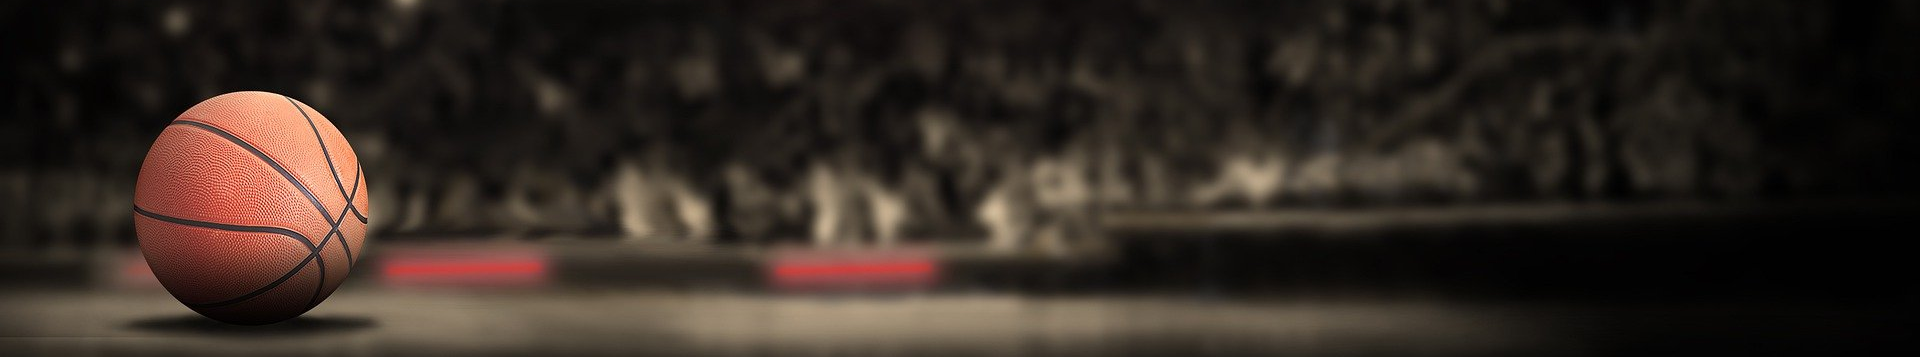
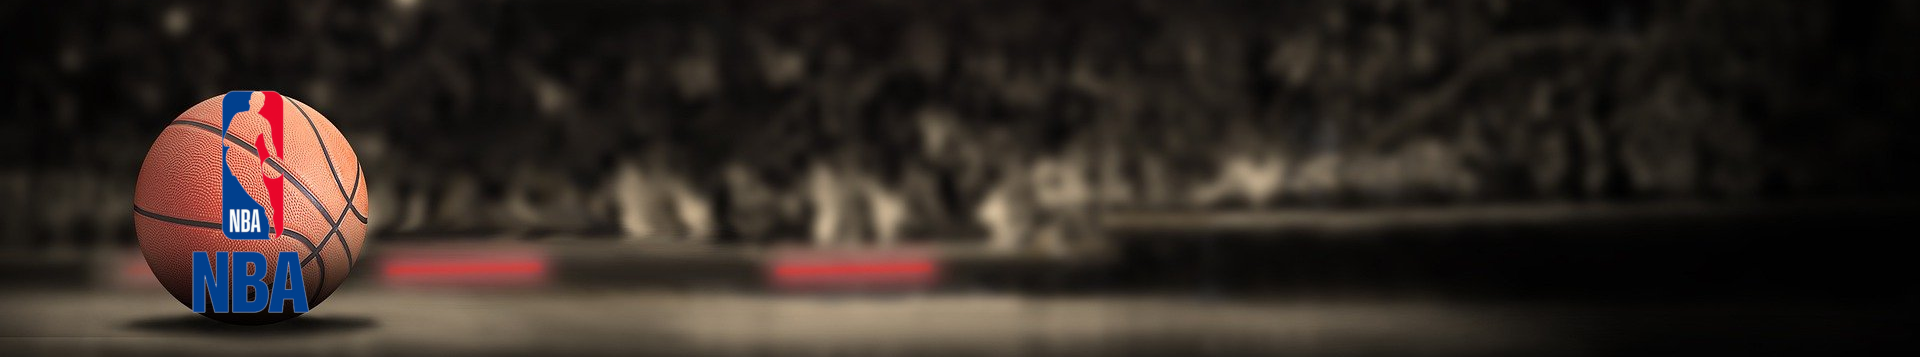
updated header image

Changed region(s): [[0.0938, 0.4622, 0.1875, 0.8936], [0.0938, 0.2465, 0.1562, 0.4622]]

diff --git a/index.html b/index.html
@@ -12,9 +12,6 @@
 <body>
     <header id = "header" >
         <img class="court=" src="./assets/images/court.png">
-        <div class = "is-flex">    
-            <img class="nba image is-128x128" id = "image" src="./assets/images/NBA_Logo.png">
-        </div>
     </header>
     <main>
         <div class='tile'>
